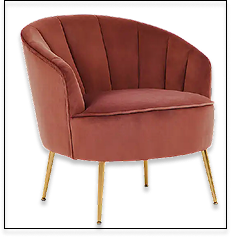
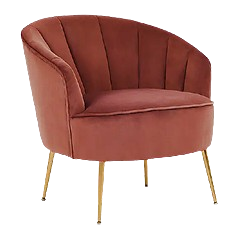
improve the heckto

diff --git a/assets/main.css b/assets/main.css
@@ -49,10 +49,9 @@ body {
 .header {
     position: sticky;
     width: 100%;
-    padding: 20px 0;
     align-items: start;
     top: 0;
-    z-index: 100;
+    z-index:100;
 
 }
 
@@ -117,6 +116,7 @@ body {
         display: block;
     }
 
+
 }
 
 
@@ -138,9 +138,8 @@ body {
 .hero-collection {
     display: flex;
     flex-wrap: wrap;
-    margin-top: 100px;
     align-items: center;
-    padding: 20px 30px;
+    padding:0 30px;
 }
 
 .hero-collections {
@@ -181,6 +180,26 @@ body {
 .hero-collection .hero-collection-h2 {
     margin-top: 10px;
 }
+@media screen and (min-width:5.1px)  and (max-width:800px) {
+
+    .hero-collections .hero-collection {
+        justify-content: center;
+        align-content: center;
+        
+
+    }
+}
+@media screen  and (max-width:500px) {
+
+    .hero-collections .hero-collection {
+      justify-content: center;
+        align-items: center;
+        
+    }
+    
+        
+}
+
 
 .products .row {
 
@@ -242,6 +261,10 @@ body {
     position: absolute;
     top: 5px;
     left: 3px;
+    display: flex;
+    gap: 5px;
+    align-items: flex-end;
+    text-align-last: end;
     opacity: 0;
 }
 
@@ -276,6 +299,7 @@ body {
     display: flex;
     align-items: flex-end;
     justify-content: center;
+    
    
 }
 
@@ -327,6 +351,7 @@ body {
         justify-content: center;
 
         width: calc((100% - 40px) / 3);
+       
 
     }
 }
@@ -335,7 +360,7 @@ body {
 
     .products .product .product-item {
         justify-content: center;
-
+        align-content: center;
         width: calc((100% - 20px) / 2);
 
     }
@@ -345,7 +370,7 @@ body {
 
     .products .product .product-item {
         justify-content: center;
-
+        align-content: center;
         width: 100%;
 
     }
@@ -389,11 +414,19 @@ body {
     flex-direction: column;
     gap:4px;
     position: absolute;
-    left: 2px;
+    left: 4px;
     justify-content: center;
     align-items: center;
     opacity: 0;
+    
+    
+    
 }
+.image-product .icons .fa-solid{
+    padding: 0;
+   
+}
+
 .item-product:hover .icons{
         opacity: 1;
        
@@ -536,38 +569,16 @@ body {
     font-family: "Josefin Sans", sans-serif;
     padding-top: 20px;
 }
-
-@media screen and (min-width:600px) and (max-width:700px) {
-
-    .shopex .supports .support{
+@media screen and (max-width:550px) {
+    .shopex .support-item{
         justify-content: center;
         align-items: center;
-        text-align: center;
-       width: calc((100% - 40px) / 3 );
-
     }
 }
-@media screen and (min-width:400px) and (max-width:599px) {
 
-    .shopex .supports .support{
-        justify-content: center;
-        align-items: center;
-        text-align: center;
 
-       width: calc((100% - 20px) / 2 );
 
-    }
-}
-@media screen and (min-width:0) and (max-width:499px) {
 
-    .shopex .supports .support {
-        justify-content: center;
-        align-items: center;
-        text-align: center;
-        width: 100%;
-
-    }
-}
 
 .trending-products .container {
     padding-top: 50px;
@@ -774,7 +785,8 @@ border-bottom: 10px;
 
     .top-categories .top-category .category {
         justify-content: center;
-
+        align-items: center;
+        
         width: calc((100% - 30px) / 2);
 
     }
@@ -784,7 +796,8 @@ border-bottom: 10px;
 
     .top-categories .top-category .category {
         justify-content: center;
-
+       align-items: center;
+       justify-items: center;
         width: 100%;
 
     }
@@ -910,7 +923,9 @@ border-bottom: 10px;
 
     .blogs .last-blogs .blog {
         justify-content: center;
-
+      align-items: center;
+      align-content: center;
+      
         width: calc((100% - 20px) / 2);
 
     }
@@ -920,9 +935,9 @@ border-bottom: 10px;
 @media screen and (min-width:0px) and (max-width:849px) {
 
     .blogs .last-blogs .blog{
-        justify-content: center;
+        text-align: center;
         align-items: center;
-
+        justify-items: center;
         width: 100%;
 
     }

diff --git a/index.html b/index.html
@@ -50,8 +50,8 @@
 
     <main>
 
-        <section>
-            <div class="hero-collections">
+        <section class="hero-collections">
+          
                 <div class="container">
                     <div class="row">
                         <div class="hero-collection">
@@ -74,12 +74,13 @@
 
 
                 </div>
-            </div>
+            
 
         </section>
 
 
         <section class="products">
+            
 
             <div class="container">
                 <div class="row">
@@ -89,7 +90,7 @@
                             <div class="product-item">
                                 <div class="product-image">
                                     <div class="icons">
-                                        <i class="fa-solid fa-cart-shopping"></i>
+                                    <i class="fa-solid fa-cart-shopping"></i>
                                         <i class="fa-regular fa-heart"></i>
                                         <i class="fa-solid fa-magnifying-glass-plus"></i>
                                     </div>
@@ -195,12 +196,13 @@
 
                 </div>
             </div>
+       
         </section>
 
 
 
-        <section>
-            <div class="last-products">
+        <section class="last-products">
+           
                 <div class="container">
                     <div class="row">
                         <div class="last-product">
@@ -341,13 +343,13 @@
                         </div>
                     </div>
                 </div>
-            </div>
+         
 
 
         </section>
 
-        <section>
-            <div class="shopex">
+        <section class="shopex">
+          
                 <div class="container">
                     <div class="row">
                         <div class="supports">
@@ -385,12 +387,12 @@
                         </div>
                     </div>
                 </div>
-            </div>
+            
 
         </section>
 
-        <section>
-            <div class="trending-products">
+        <section class="trending-products">
+            
                 <div class="container">
                     <div class="row">
                         <div class="trending-product">
@@ -442,13 +444,13 @@
                     </div>
                 </div>
 
-            </div>
+            
 
         </section>
 
 
-        <section>
-            <div class="top-categories">
+        <section class="top-categories">
+            
                 <div class="container">
                     <div class="row">
                         <div class="top-category">
@@ -506,7 +508,7 @@
                             </div>
                         </div>
                     </div>
-                </div>
+             
 
         </section>
 
@@ -519,8 +521,8 @@
             <button type="submit">shop Now</button>
         </section>
 
-        <section>
-            <div class="blogs">
+        <section class="blogs">
+            
                 <div class="container">
                     <div class="row">
                         <div class="last-blogs">
@@ -588,7 +590,7 @@
 
                     </div>
                 </div>
-            </div>
+            
 
         </section>
 
